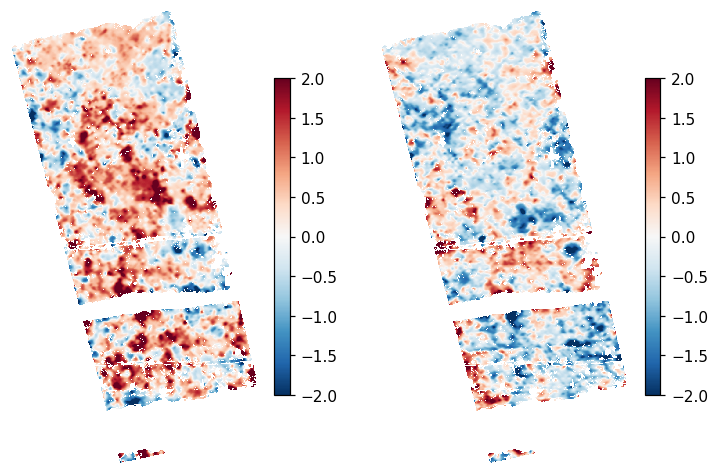
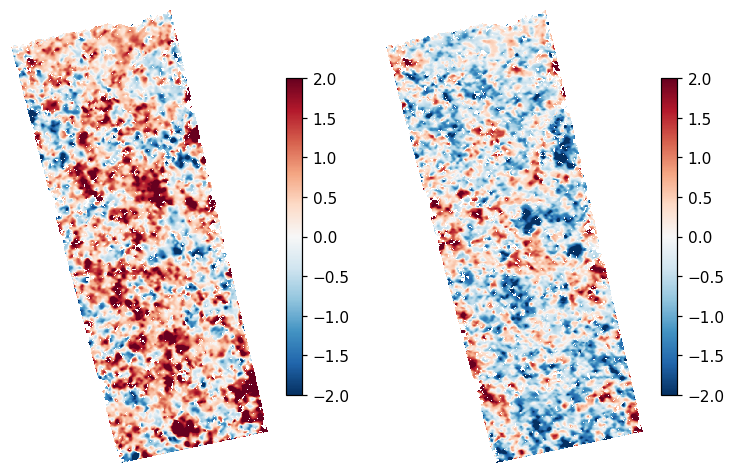
Tune up jitter solving in cassis.rst

diff --git a/docs/examples/cassis.rst b/docs/examples/cassis.rst
@@ -974,50 +974,56 @@ could be used to rederive this optimized distortion while minimizing the tilt.
 
 .. _cassis_jitter:
 
-Solving for jitter
-^^^^^^^^^^^^^^^^^^
+Joint CTX and CaSSIS jitter solving
+^^^^^^^^^^^^^^^^^^^^^^^^^^^^^^^^^^^
 
-The CTX images that go into the reference DEM are from a linescan sensor, which
-has a few meters of pose wobble along the track (:numref:`cassis_ctx_ref`). The
-tool :ref:`jitter_solve` can refine the CTX linescan poses, tied to the CaSSIS
-frame cameras, in a single joint solve, as it supports mixing linescan and frame
-cameras (:numref:`jitter_linescan_frame_cam`).
-
-Rather than registering the CaSSIS images against the reference CTX DEM, here they
-are registered at the pixel level against the CTX *images* themselves. This works
-best when the two sensors see similar illumination.
+The earlier examples showed to constrain the CaSSIS cameras against a prior CTX
+DEM. This section handles the advanced topic of pixel-level matching between CTX
+and CaSSIS images, followed by co-optimization. This only works if the two sets
+of data have similar illumination. It reduces the jitter that is usually present
+in CTX images.
 
 CTX is acquired in the early afternoon. At this site that gives a ground solar
 azimuth of about 282 to 284 degrees and an incidence of about 49 degrees, as
-reported by the ISIS ``caminfo`` and ``campt`` tools. The CaSSIS observation used
-here was acquired about ten years later, in a different Mars season, but also in
-the afternoon, so its ground solar azimuth is close, about 285 degrees. The
-shadows fall in a similar direction, which is what lets the matching succeed.
+reported by the ISIS ``caminfo`` and ``campt`` tools. CaSSIS images are recorded
+at various times during the day. Here we work with an image set that was
+acquired about ten years later, in a different Mars season, but also in the
+afternoon, so its ground solar azimuth is close, about 285 degrees. The shadows
+fall in a similar direction, which is what lets image matching succeed.
+
+CTX images are acquired with a linescan sensor, which can have a few meters of
+undulation due to jitter. The tool :ref:`jitter_solve` can take as input both
+linescan and frame cameras, and it can jointly refine the CTX linescan pose
+samples along the track and the CaSSIS frame camera poses
+(:numref:`jitter_linescan_frame_cam`).
 
 This example uses the Oxia Planum CaSSIS observation ``MY34_004172_162``
 (:numref:`cassis_ox2_geodiff`) and the contemporaneous CTX stereo pair
 ``B01_009880_1977_XN_17N024W`` and ``P22_009735_1977_XN_17N024W``, whose
-convergence angle is about 16 degrees. It leverages the blended reference CTX DEM
-from :numref:`cassis_ctx_ref`. When such a reference is not available, one is
-built by collecting a few CTX stereo pairs, bundle-adjusting each, running pairwise
-stereo, blending the DEMs, and aligning the blend to a global reference such as
-HRSC or MOLA (:numref:`cassis_ctx_ref`).
+convergence angle is about 16 degrees. It leverages the blended reference CTX
+DEM from :numref:`cassis_ctx_ref`. When such a reference is not available, one
+is built by collecting a few CTX stereo pairs, bundle-adjusting them together,
+running pairwise stereo, blending the DEMs, and aligning the blend to a global
+reference such as HRSC or MOLA (:numref:`cassis_ctx_ref`), followed by aligning
+the cameras to the same reference (:numref:`ba_pc_align`).
 
-Ingest each CTX image to an ISIS cube and a CSM linescan camera, following the CTX
-recipe (:numref:`ctx_example`). That recipe includes the radiometric calibration
-step ``ctxcal``, run after ``spiceinit``. It flattens the vignette that darkens one
-side of a raw CTX image, which otherwise weakens the cross-sensor matching. Then
-bundle-adjust the pair, run stereo with local epipolar alignment, and make a DEM::
+Ingest each CTX image to an ISIS cube and a CSM linescan camera, following the
+CTX recipe (:numref:`ctx_example`). That includes the radiometric calibration
+step ``ctxcal``, run after ``spiceinit``. It flattens the vignette that darkens
+one side of a raw CTX image, which otherwise weakens the cross-sensor matching.
+
+Bundle-adjust the pair, run stereo with local epipolar alignment, and make a
+DEM::
 
     bundle_adjust                  \
       ctx_left.cub ctx_right.cub   \
       ctx_left.json ctx_right.json \
       -o ba/run
 
-    parallel_stereo                     \
-      --stereo-algorithm asp_mgm        \
-      --alignment-method local_epipolar \
-      ctx_left.cub ctx_right.cub        \
+    parallel_stereo                        \
+      --stereo-algorithm asp_mgm           \
+      --alignment-method local_epipolar    \
+      ctx_left.cub ctx_right.cub           \
       ba/run-ctx_left.adjusted_state.json  \
       ba/run-ctx_right.adjusted_state.json \
       stereo/run
@@ -1029,14 +1035,15 @@ tricky. It has a large horizontal offset from the reference, on the order of 18
 km, inherited from the uncontrolled camera poses, and its surface carries fine
 along-track corrugation from the correlator. A single alignment step, whether a sparse
 hillshade interest-point match or a dense point-cloud match, failed on this
-low-texture terrain. What worked was a two-stage alignment. First, coarsen both
-DEMs by a factor of four, from 18 to 72 meters per pixel, with
-``gdalwarp -r average``. The averaging removes the corrugation and leaves the
-large craters, which match robustly. Then a single :ref:`pc_align` aligns the
-coarse pair. The ``--initial-transform-from-hillshading`` option finds a rigid
-transform from the hillshade interest points, then, because the iteration count is
-nonzero, refines it with point-to-plane ICP in the same run. The ICP recovers the
-rotation::
+low-texture terrain. 
+
+What worked was a two-stage alignment. First, coarsen both DEMs by a factor of
+four, from 18 to 72 meters per pixel, with ``gdalwarp -r average``. The
+averaging removes the corrugation and leaves the large craters, which match
+robustly. Then a single :ref:`pc_align` aligns the coarse pair. The
+``--initial-transform-from-hillshading`` option finds a rigid transform from the
+hillshade interest points, then, because the iteration count is nonzero, refines
+it with point-to-plane ICP in the same run. The ICP recovers the rotation::
 
     gdalwarp -r average -tr 72 72 stereo/ctx-DEM.tif ctx_72.tif
     gdalwarp -r average -tr 72 72 ctx_ref.tif        ref_72.tif
@@ -1045,16 +1052,15 @@ rotation::
       --initial-transform-from-hillshading rigid \
       --max-displacement 300                     \
       --num-iterations 2000                      \
+      --save-transformed-source-points           \
       ref_72.tif ctx_72.tif                      \
       -o align/run
 
-Getting the rotation right here is essential. A residual rotation propagates
-through the jitter solve, and the sparse cross-sensor ties cannot undo it. On this
-site the difference was a 7 m versus a 2 m final result. Check the alignment by eye,
-never by a vertical difference. On low-texture terrain a vertical difference is
-blind to horizontal shift and rotation. Overlay the two hillshades on one common
-grid, with the same projection, extent, and pixel size, and look for co-located
-craters. Fringes that flip direction across the frame signal a residual rotation.
+The resulting transformed source cloud should be gridded with ``point2dem`` and
+inspected to ensure it is on top of the reference cloud. This step still remains
+rather fragile. On occasion it is better to jst set the number of iterations to 0,
+so to stop at teh transform as produced by hillshading only. Here, however, ICP
+did improve the alignment.
 
 The rigid transform is independent of the grid it was estimated on, so it applies
 directly to the native-resolution cameras (:numref:`ba_pc_align`)::
@@ -1068,17 +1074,19 @@ directly to the native-resolution cameras (:numref:`ba_pc_align`)::
       -o align/run
 
 Next, mapproject the two CTX images and all 60 CaSSIS framelets onto the
-low-resolution blurred reference DEM, at the native CaSSIS resolution of 4.59
-meters per pixel. The CTX native resolution, about 5 meters, is comparable, so a
-single grid serves both. All inputs to the joint bundle adjustment then share this
-grid::
+low-resolution blurred reference CTX DEM, at the native CaSSIS resolution of
+4.59 meters per pixel. The CTX native resolution, about 6 meters, is comparable,
+but for the profuse of interest point matching, which fallows, having all the
+mapprojected images at the same resolution is better.
+
+::
 
     mapproject --tr 4.59 ctx_ref_blur.tif                 \
       ctx_left.cub align/run-ctx_left.adjusted_state.json \
       ctx_left.map.tif
 
-(likewise for the right CTX image and each CaSSIS framelet, each with its own
-camera).
+Do likewise for the right CTX image and each CaSSIS framelet, each with its own
+camera.
 
 Collect the aligned CTX cameras and the CaSSIS frame cameras into an image list
 and a camera list, in the same order, with a matching list of the mapprojected
@@ -1123,8 +1131,13 @@ matches from the bundle adjustment. The cross-sensor matches begin with a large
 reprojection error, since that misregistration is what is being solved for, so
 raise ``--max-initial-reprojection-error`` to keep them. Constrain the solve to
 the jitter-free reference with ``--heights-from-dem`` and an anchor DEM
-(:numref:`jitter_dem_constraint`, :numref:`jitter_anchor_points`), with a
-per-camera position leash via ``--camera-position-uncertainty``::
+(:numref:`jitter_dem_constraint`, :numref:`jitter_anchor_points`).
+
+Here it was important to keep ``--anchor-dem-uncertainty`` rather tight, at 25
+m. Otherwise the optimization of poses was too aggressive and the pose sequence
+became unstable.
+
+::
 
     jitter_solve                              \
       --image-list images.txt                 \
@@ -1133,15 +1146,15 @@ per-camera position leash via ``--camera-position-uncertainty``::
       --heights-from-dem ctx_ref.tif          \
       --heights-from-dem-uncertainty 10       \
       --anchor-dem ctx_ref.tif                \
-      --anchor-dem-uncertainty 100            \
-      --num-anchor-points-per-tile 10         \
+      --anchor-dem-uncertainty 25             \
+      --num-anchor-points-per-tile 50         \
       --camera-position-uncertainty 100,100   \
       --num-lines-per-position 1000           \
       --num-lines-per-orientation 250         \
       --max-initial-reprojection-error 500    \
       --robust-threshold 0.5                  \
-      --num-passes 2                        \
-      --num-iterations 50                   \
+      --num-passes 2                          \
+      --num-iterations 50                     \
       -o jitter/run
 
 The goal is the CTX, so look at the two de-jittered surfaces side by side, then
@@ -1172,7 +1185,7 @@ residual rotation the after value was about 7 m.
 
 The same holds against the CaSSIS DEM, over the smaller CaSSIS footprint
 (:numref:`cassis_ox2_jitter_ctxcassis`). The CTX minus CaSSIS difference tightens
-from a median of 0.4 m and an NMAD of 4.3 m to a median of -0.4 m and an NMAD of
+from a median of 0.4 m and an NMAD of 4.3 m to a median of -0.5 m and an NMAD of
 1.9 m.
 
 .. figure:: ../images/cassis_ox2_jitter_ctxcassis.png
@@ -1192,8 +1205,8 @@ and reading the raw disparity with :ref:`disparitydebug`, as in
    :alt: CaSSIS to de-jittered CTX registration, disparity
 
    Registration of the CaSSIS DEM to the de-jittered CTX, in pixels at 18 m/pixel.
-   Left: horizontal disparity, mean 0.4 px and NMAD 0.7 px. Right: vertical
-   disparity, mean -0.2 px and NMAD 0.6 px.
+   Left: horizontal disparity, mean 0.4 px and NMAD 0.9 px. Right: vertical
+   disparity, mean -0.2 px and NMAD 0.8 px.
 
 After the solve, mapproject the CaSSIS framelets at the native resolution onto the
 smooth CTX DEM as usual (:numref:`cassis_stereo`), redo stereo, and make the DEM.
